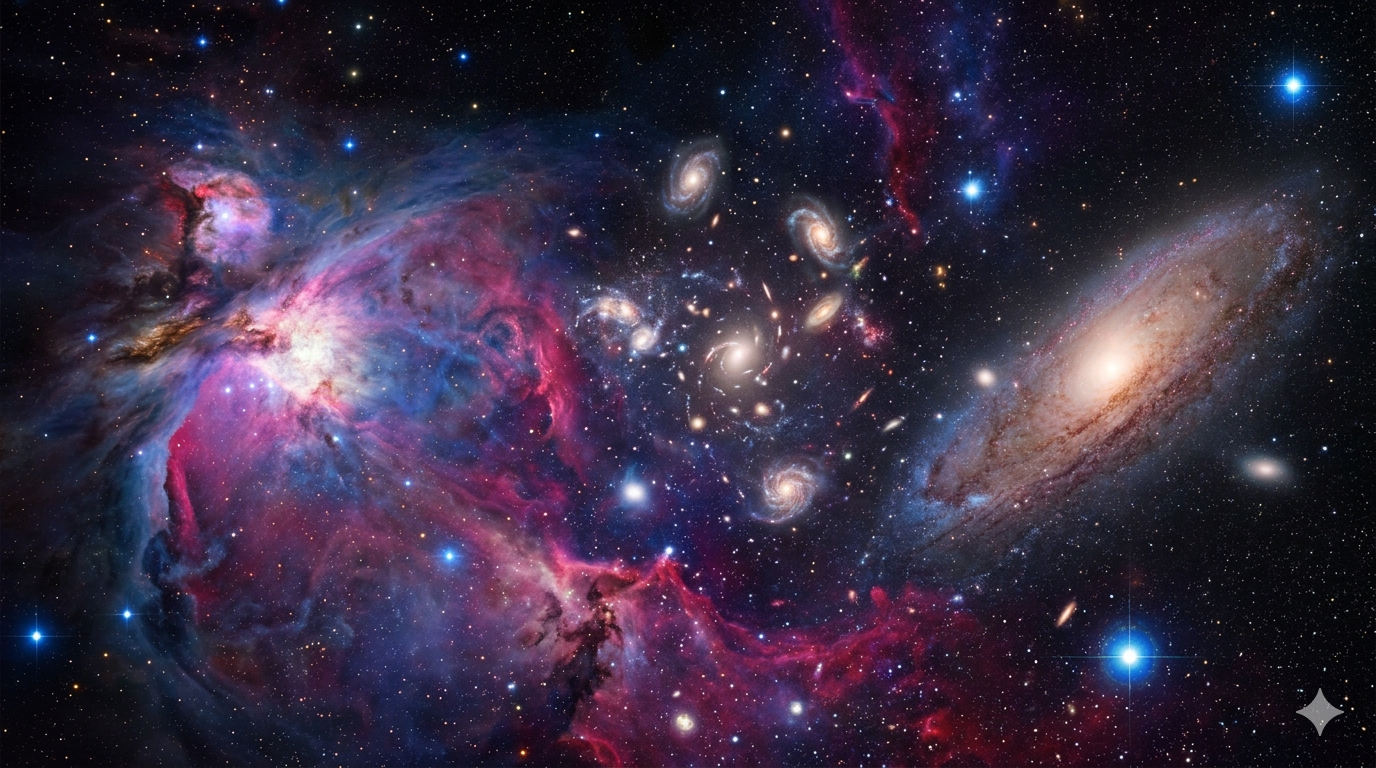
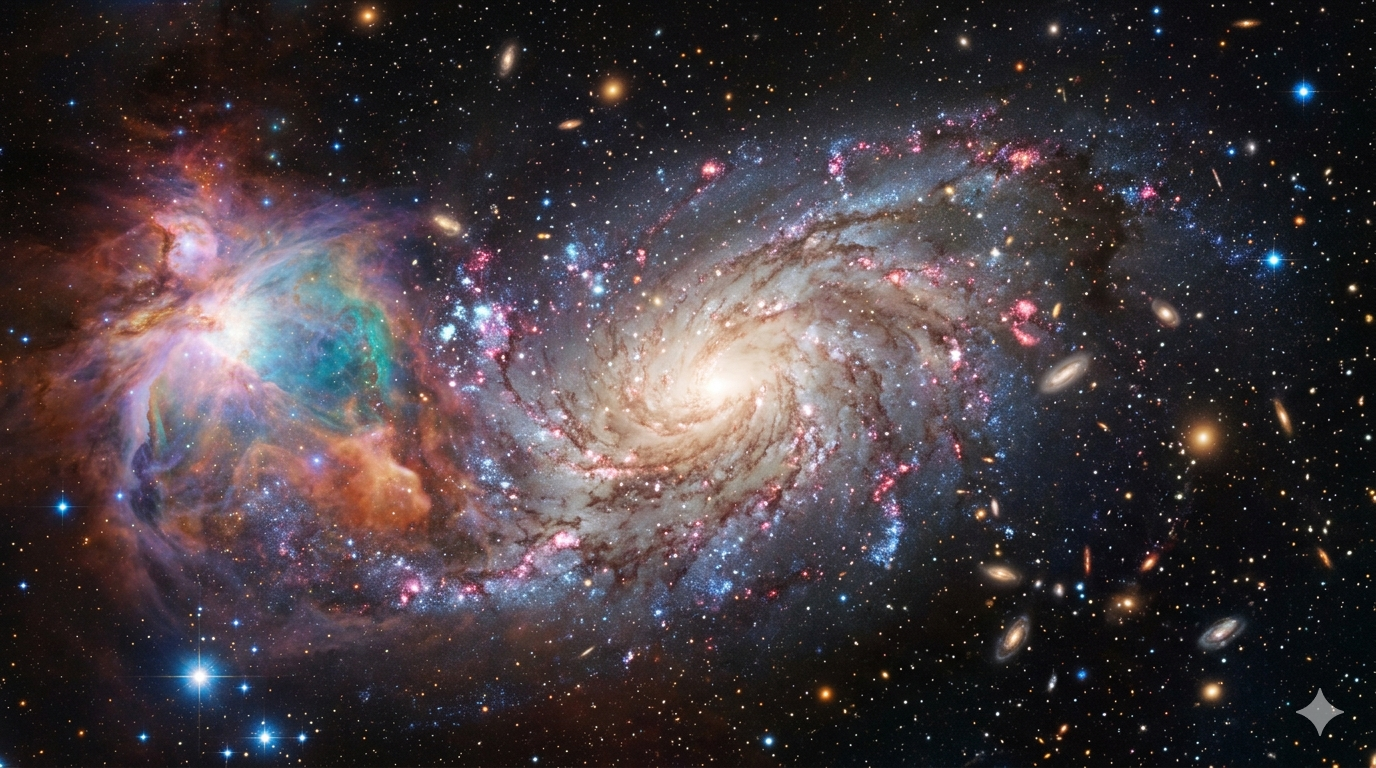
debug: fix path and lock issues

diff --git a/static/css/3d_main.css b/static/css/3d_main.css
@@ -5,7 +5,7 @@ body {
     margin: 0;
     padding: 0;
     overflow: hidden;
-    background-image: url('/static/images/bg.png');
+    background-image: url('/static/images/bg2.png');
     background-size: cover;
     background-position: center;
     background-attachment: fixed;
@@ -21,7 +21,7 @@ body::before {
     left: 0;
     width: 100%;
     height: 100%;
-    background: rgba(0, 0, 0, 0.85);
+    background: rgba(0, 0, 0, 0.7);
     z-index: -1;
 }
 

diff --git a/static/js/3d_main.js b/static/js/3d_main.js
@@ -996,7 +996,7 @@ window.addEventListener('load', () => {
 
     // --- [2. 引擎初始化] ---
     Graph = ForceGraph3D()(container)
-        .backgroundColor('#00050a') // 深邃星空底色
+        .backgroundColor('rgba(0, 5, 10, 0.6)') // 半透明深色，让背景图透出
         .showNavInfo(false)
         .nodeThreeObjectExtend(false) // 彻底接管节点渲染
         .nodeRelSize(REL_SIZE)
